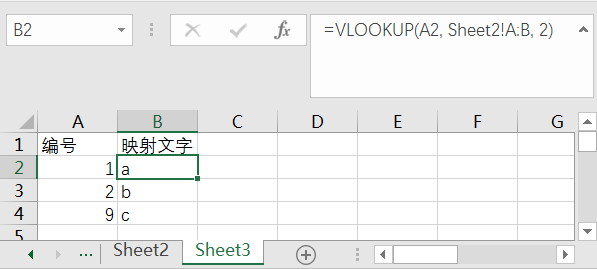
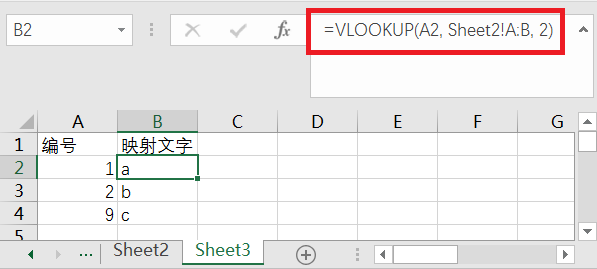
更新excel.html文件中的VLOOKUP

Changed region(s): [[0.5126, 0.0297, 0.9648, 0.2082]]

diff --git a/category/office/excel/excel.html b/category/office/excel/excel.html
@@ -89,6 +89,28 @@
 					<img src="./refs/imgs/vlookup_0001.png"/>
 					<br/>
 					<img src="./refs/imgs/vlookup_0002.png"/>
+					<br/>
+					注意这里有一个在操作时的问题, 按上图举例说明:
+					<br/>
+					1.在sheet3的某个格子中输入 "=vlookup(A2"。
+					<br/>
+					2.然后输入后面的"原数据表的列"时需要选择sheet2中的 A, B 两列。
+					<br/>
+					下面的步骤是重点, 并且可以有两种办法:
+					<br/>
+					3.
+					<br/>
+					<span style="margin-left:32px;"></span>a1.此时注意要用鼠标右键点击sheet3来回到sheet3, 若是用习惯性的鼠标左键则会导致"原数据表的列"原本应为sheet2的A, B两列变为sheet3的A, B两列。
+					<br/>
+					<span style="margin-left:32px;"></span>a2.之后再输入", 2"即逗号和2, 即第2列。
+					<br/>
+					<span style="margin-left:32px;"></span>或
+					<br/>
+					<span style="margin-left:32px;"></span>b1.这是另一种办法即在上图中红框区域输入英文的逗号(,), 之后再输入上图红框区域中的 2, 即第2列。
+					<br/>
+					<span style="margin-left:32px;"></span>b2.点击sheet3回到sheet3
+					<br/>
+					4.输入右括号")"在按回车键。
 				</div>
 			</section>
 			<section>
